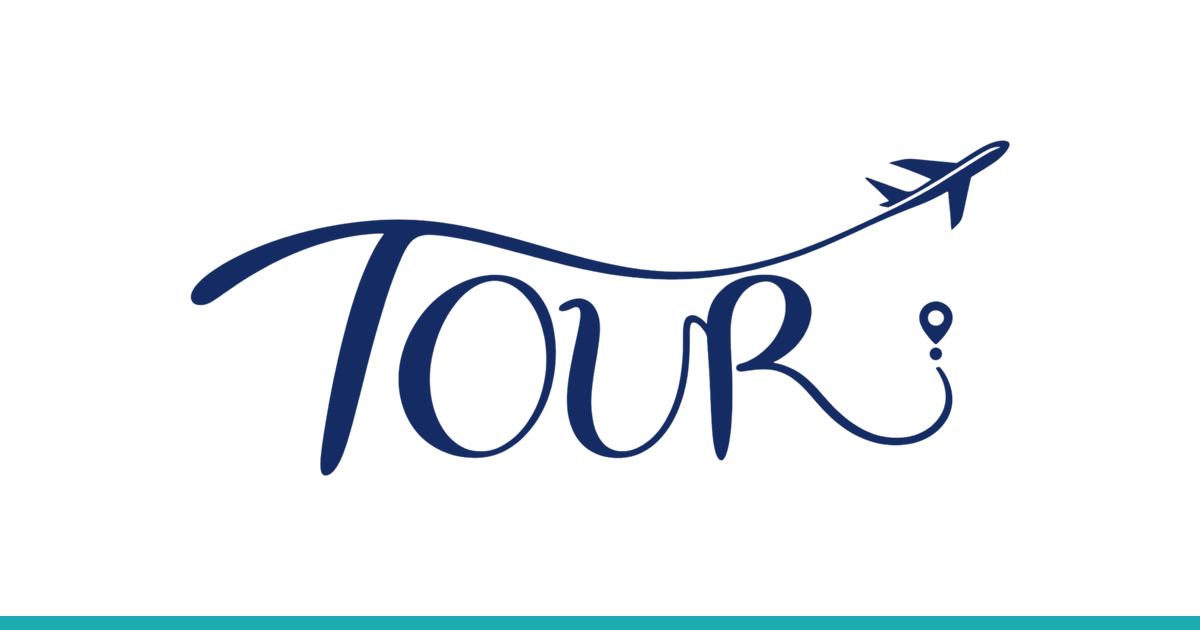
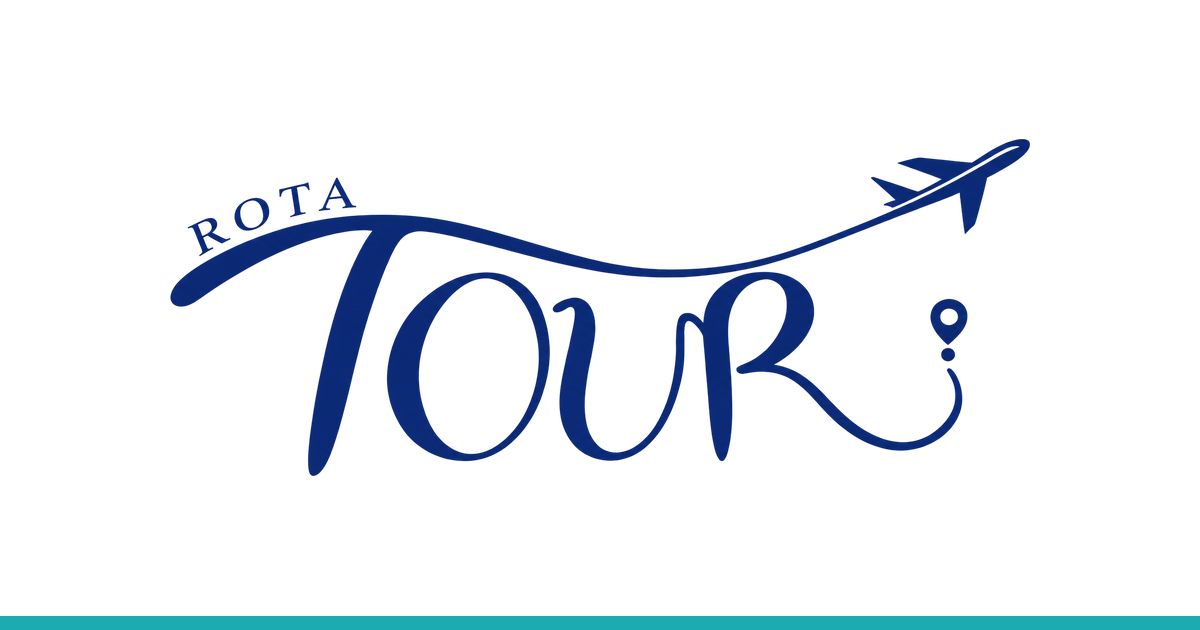
Refactor code structure for improved readability and maintainability

diff --git a/src/components/Brand.tsx b/src/components/Brand.tsx
@@ -2,22 +2,22 @@ import Image from "next/image";
 import Link from "next/link";
 
 /**
- * Logotipo oficial da Tour (manual de marca).
- * Regras: não alterar cor fora da paleta, não cortar, não rotacionar, sem sombras/efeitos/opacidade,
- * nunca sobre ilustrações. Versão azul-escuro (#142c63) em fundos claros; versão azul-claro (#caf5f7)
+ * Logotipo oficial da Rota Tour (manual de marca).
+ * Regras: não alterar cor fora da paleta, não cortar, não rotacionar, não remover elementos ou a escrita "ROTA",
+ * sem sombras/efeitos/opacidade, nunca sobre ilustrações. Versão original (azul #0b2975) em fundos claros; versão azul-claro (#caf5f7)
  * em fundos escuros (rodapé e modo escuro).
  */
 type Props = { variant?: "auto" | "light-bg" | "dark-bg"; height?: number; className?: string };
 
-const RATIO = 760 / 311;
+const RATIO = 760 / 298;
 
-export function Brand({ variant = "auto", height = 50, className = "" }: Props) {
+export function Brand({ variant = "auto", height = 58, className = "" }: Props) {
   const width = Math.round(height * RATIO);
-  const navy = <Image src="/logo/logo-tour.png" alt="Tour" width={width} height={height} priority />;
-  const light = <Image src="/logo/logo-tour-claro.png" alt="Tour" width={width} height={height} priority />;
+  const navy = <Image src="/logo/logo-rota-tour.png" alt="Rota Tour" width={width} height={height} priority />;
+  const light = <Image src="/logo/logo-rota-tour-claro.png" alt="Rota Tour" width={width} height={height} priority />;
 
   return (
-    <Link href="/" aria-label="Tour — página inicial" className={`inline-flex shrink-0 items-center ${className}`}>
+    <Link href="/" aria-label="Rota Tour — página inicial" className={`inline-flex shrink-0 items-center ${className}`}>
       {variant === "light-bg" && navy}
       {variant === "dark-bg" && light}
       {variant === "auto" && (

diff --git a/src/lib/site.ts b/src/lib/site.ts
@@ -1,12 +1,12 @@
 import type { IconName } from "@/components/Icon";
 
 /**
- * Configurações do site. Preencha os campos vazios com os dados reais da Tour.
+ * Configurações do site. Preencha os campos vazios com os dados reais da Rota Tour.
  * Campos vazios aparecem no rodapé como placeholders, nunca com dados inventados.
  */
 export const SITE = {
-  name: "Tour",
-  title: "Tour — Blog de viagens, destinos e dicas",
+  name: "Rota Tour",
+  title: "Rota Tour — Blog de viagens, destinos e dicas",
   description:
     "Dicas de viagem, roteiros e inspiração para viajar de avião e de ônibus com tranquilidade.",
   // Endereço público do site, usado no sitemap e nas meta tags (prévia do WhatsApp, redes sociais).
@@ -15,9 +15,9 @@ export const SITE = {
     process.env.NEXT_PUBLIC_SITE_URL ??
     (process.env.VERCEL_PROJECT_PRODUCTION_URL ? `https://${process.env.VERCEL_PROJECT_PRODUCTION_URL}` : "http://localhost:3000"),
   /** Imagem de compartilhamento (PNG 1200×630). WhatsApp não aceita SVG. */
-  ogImage: { url: "/og-image.png", width: 1200, height: 630, alt: "Tour — logo" },
+  ogImage: { url: "/og-image.png", width: 1200, height: 630, alt: "Rota Tour — logo" },
   about:
-    "A Tour ajuda você a planejar viagens de avião e de ônibus com tranquilidade — do primeiro roteiro ao retorno para casa.",
+    "A Rota Tour ajuda você a planejar viagens de avião e de ônibus com tranquilidade — do primeiro roteiro ao retorno para casa.",
 };
 
 export const CONTACT = {

diff --git a/src/app/globals.css b/src/app/globals.css
@@ -1,8 +1,8 @@
 @import "tailwindcss";
 
 /* ---------------------------------------------------------------
-   Tour — tokens de design (manual de marca)
-   Paleta oficial: azul-escuro #142c63 (logo, confiança),
+   Rota Tour — tokens de design (manual de marca)
+   Paleta oficial: azul-escuro #0b2975 (cor do logo, confiança),
    verde-azulado #1cabb0 (destaque) e azul-claro #caf5f7 (leveza).
    Branco e cinza suave completam os fundos.
 ---------------------------------------------------------------- */
@@ -13,23 +13,23 @@
   --mist: #caf5f7;
   --line: #d6e4ec;
   --line-strong: #6f7f99;
-  --ink: #142c63;
+  --ink: #0b2975;
   --ink-body: #3b4b6b;
   --ink-muted: #5a6782;
   --sky: #1cabb0;
-  --on-sky: #142c63;
+  --on-sky: #0b2975;
   --accent: #0a7276;
-  --primary: #142c63;
+  --primary: #0b2975;
   --on-primary: #ffffff;
-  --navy: #142c63;
+  --navy: #0b2975;
   --on-navy: #ffffff;
   --on-navy-muted: #caf5f7;
   --focus: #0a7276;
   --success: #1e7a4f;
   --danger: #b3261e;
   --scrim: rgba(11, 26, 61, 0.66);
-  --shadow-sm: 0 1px 2px rgba(20, 44, 99, 0.06), 0 2px 8px rgba(20, 44, 99, 0.05);
-  --shadow-md: 0 10px 30px rgba(20, 44, 99, 0.12);
+  --shadow-sm: 0 1px 2px rgba(11, 41, 117, 0.06), 0 2px 8px rgba(11, 41, 117, 0.05);
+  --shadow-md: 0 10px 30px rgba(11, 41, 117, 0.12);
   color-scheme: light;
 }
 

diff --git a/src/components/SiteFooter.tsx b/src/components/SiteFooter.tsx
@@ -44,7 +44,7 @@ export function SiteFooter() {
       <div className="container-rt">
         <div className="grid gap-8 sm:grid-cols-2 lg:grid-cols-[1.4fr_1fr_1fr_1.2fr] lg:gap-12">
           <div id="sobre">
-            <Brand variant="dark-bg" height={56} />
+            <Brand variant="dark-bg" height={64} />
             <p className="mt-4 max-w-[340px]">{SITE.about}</p>
             <p className="mt-6 text-sm">
               <span className="sr-only">Redes sociais: </span>
@@ -88,7 +88,7 @@ export function SiteFooter() {
         </div>
 
         <div className="mt-12 flex flex-wrap justify-between gap-3 border-t border-on-navy-muted/25 pt-6 text-sm">
-          <p>© {new Date().getFullYear()} Tour. Todos os direitos reservados.</p>
+          <p>© {new Date().getFullYear()} Rota Tour. Todos os direitos reservados.</p>
           <ul className="flex gap-6">
             <li><Link href="/privacidade" className={link}>Política de privacidade</Link></li>
             <li><Link href="/termos" className={link}>Termos de uso</Link></li>

diff --git a/src/app/artigos/page.tsx b/src/app/artigos/page.tsx
@@ -13,7 +13,7 @@ export default function ArticlesPage() {
   return (
     <section className="py-12 sm:py-[72px]">
       <div className="container-rt">
-        <SectionHead as="h1" eyebrow="Blog Tour" title="Todos os artigos" text="Guias, dicas e inspirações para planejar cada etapa da viagem." />
+        <SectionHead as="h1" eyebrow="Blog Rota Tour" title="Todos os artigos" text="Guias, dicas e inspirações para planejar cada etapa da viagem." />
         <ArticleBrowser articles={getAllArticles().map(toSummary)} categories={CATEGORIES} mode="links" />
       </div>
     </section>

diff --git a/src/app/page.tsx b/src/app/page.tsx
@@ -47,7 +47,7 @@ export default function HomePage() {
               Cada caminho leva a uma nova experiência.
             </h2>
             <p>
-              Seja cruzando o céu, descobrindo novas paisagens pela estrada ou planejando o próximo destino, a Tour ajuda você a transformar planos em
+              Seja cruzando o céu, descobrindo novas paisagens pela estrada ou planejando o próximo destino, a Rota Tour ajuda você a transformar planos em
               experiências.
             </p>
           </div>

diff --git a/src/app/privacidade/page.tsx b/src/app/privacidade/page.tsx
@@ -6,7 +6,7 @@ export const metadata: Metadata = { title: "Política de privacidade" };
 export default function PrivacyPage() {
   return (
     <LegalPage title="Política de privacidade">
-      <p>Esta página está reservada para o texto oficial da Tour.</p>
+      <p>Esta página está reservada para o texto oficial da Rota Tour.</p>
       <p>
         Inclua aqui como a agência coleta, usa e protege dados pessoais, em conformidade com a LGPD, e o canal para o titular exercer seus direitos.
       </p>

diff --git a/src/app/termos/page.tsx b/src/app/termos/page.tsx
@@ -6,7 +6,7 @@ export const metadata: Metadata = { title: "Termos de uso" };
 export default function TermsPage() {
   return (
     <LegalPage title="Termos de uso">
-      <p>Esta página está reservada para o texto oficial da Tour.</p>
+      <p>Esta página está reservada para o texto oficial da Rota Tour.</p>
       <p>Inclua aqui as condições de uso do site e do blog, direitos autorais do conteúdo e responsabilidades.</p>
     </LegalPage>
   );

diff --git a/src/components/Hero.tsx b/src/components/Hero.tsx
@@ -7,7 +7,7 @@ export function Hero({
   image,
   imageAlt,
   title = "Sua próxima viagem começa aqui.",
-  subtitle = "Descubra destinos, encontre inspiração e prepare-se para viver experiências inesquecíveis com a Tour.",
+  subtitle = "Descubra destinos, encontre inspiração e prepare-se para viver experiências inesquecíveis com a Rota Tour.",
 }: Props) {
   return (
     <section aria-labelledby="hero-titulo" className="pt-3 sm:pt-4">

diff --git a/src/lib/articles.ts b/src/lib/articles.ts
@@ -29,7 +29,7 @@ function toIso(d: string): string {
   return m ? `${m[3]}-${m[2]}-${m[1]}` : "";
 }
 
-/** Lê um artigo no modelo Markdown da Tour (ver README). */
+/** Lê um artigo no modelo Markdown da Rota Tour (ver README). */
 export function parseArticle(md: string, slug: string): Article {
   const a: Article = {
     slug, title: "", category: "", categorySlug: "", date: "", isoDate: "", readTime: "",

diff --git a/src/app/layout.tsx b/src/app/layout.tsx
@@ -10,7 +10,7 @@ const manrope = Manrope({ subsets: ["latin"], variable: "--font-manrope", displa
 
 export const metadata: Metadata = {
   metadataBase: new URL(SITE.url),
-  title: { default: SITE.title, template: "%s — Blog Tour" },
+  title: { default: SITE.title, template: "%s — Blog Rota Tour" },
   description: SITE.description,
   applicationName: SITE.name,
   openGraph: {

diff --git a/README.md b/README.md
@@ -1,6 +1,6 @@
-# Blog Tour
+# Blog Rota Tour
 
-Blog da agência de viagens **Tour**, feito com **Next.js (App Router)**, **React** e **Tailwind CSS v4**.
+Blog da agência de viagens **Rota Tour**, feito com **Next.js (App Router)**, **React** e **Tailwind CSS v4**.
 
 ## Como rodar
 
@@ -22,9 +22,9 @@ npm start
 
 ## Marca
 
-- **Logo oficial:** `public/logo/logo-tour.png` (azul-escuro, para fundos claros) e `public/logo/logo-tour-claro.png` (azul-claro da paleta, para o rodapé e o modo escuro). Ele é usado pelo componente `src/components/Brand.tsx`.
-- **Regras do manual:** não alterar a cor (use só as cores da paleta), não cortar, não rotacionar, não colocar sobre ilustrações e não aplicar sombras, efeitos ou opacidade.
-- **Paleta:** azul-escuro `#142c63`, verde-azulado `#1cabb0` e azul-claro `#caf5f7`. Os tons usados em cada contexto estão em `src/app/globals.css`.
+- **Logo oficial:** `public/logo/logo-rota-tour.png` (cores originais, para fundos claros) e `public/logo/logo-rota-tour-claro.png` (azul-claro da paleta, para o rodapé e o modo escuro). Ele é usado pelo componente `src/components/Brand.tsx`.
+- **Regras do manual:** não alterar a cor (use só as cores da paleta), não cortar, não rotacionar, não remover elementos nem a escrita "ROTA", não colocar sobre ilustrações e não aplicar sombras, efeitos ou opacidade.
+- **Paleta:** azul-escuro `#0b2975` (a cor do logo; o manual cita `#142c63`), verde-azulado `#1cabb0` e azul-claro `#caf5f7`. Os tons usados em cada contexto estão em `src/app/globals.css`.
 
 ## Estrutura
 
